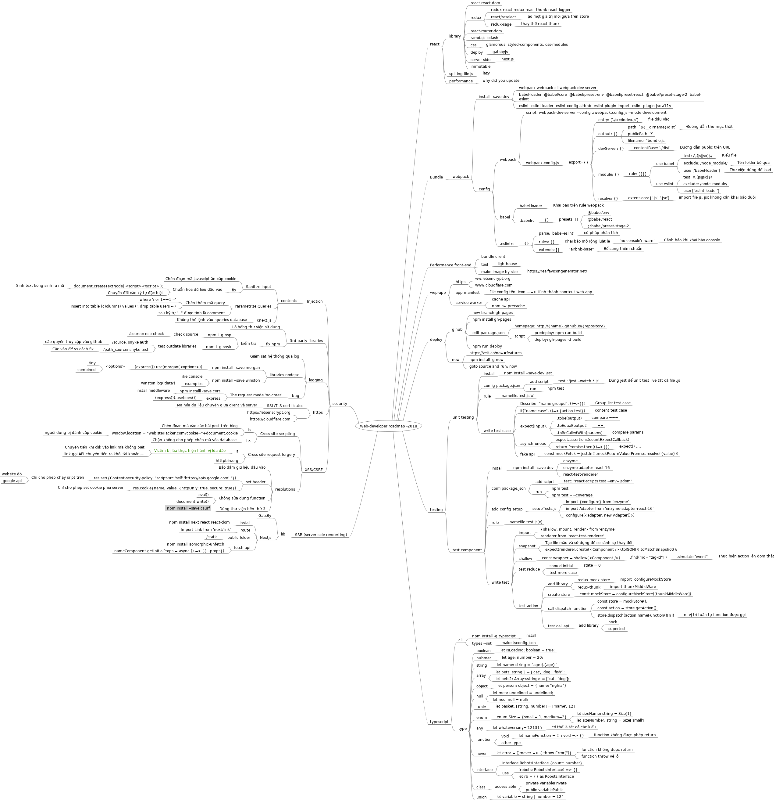
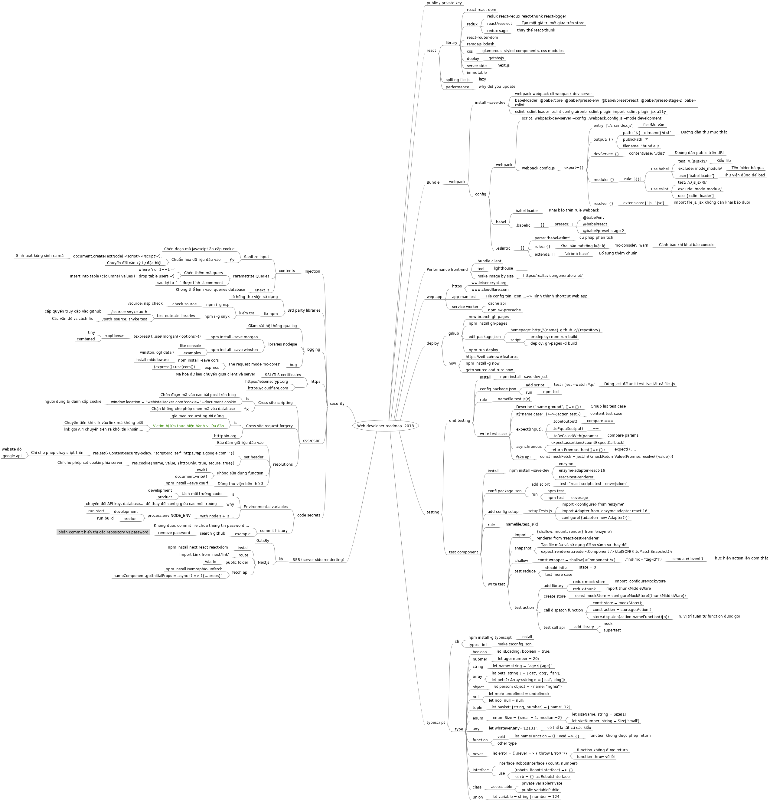
update

diff --git a/website/Web-developer roadmap -2018.mm b/website/Web-developer roadmap -2018.mm
@@ -1,6 +1,7 @@
 <map version="1.1.0">
 <!-- To view this file, download free mind mapping software FreeMind from http://freemind.sourceforge.net -->
 <node CREATED="1562349088685" ID="ID_85687085" MODIFIED="1562349112099" TEXT="Web-developer roadmap -2018">
+<node CREATED="1565706366896" ID="ID_68944081" MODIFIED="1565706381459" POSITION="right" TEXT="public / private key"/>
 <node CREATED="1562349279277" ID="ID_1216861701" MODIFIED="1562431284669" POSITION="right" TEXT="react">
 <node CREATED="1562431287372" ID="ID_1533171970" MODIFIED="1562431295934" TEXT="library">
 <node CREATED="1562431297049" ID="ID_491465079" MODIFIED="1562431305770" TEXT="react react-dom"/>
@@ -470,6 +471,7 @@
 </node>
 <node CREATED="1565705073527" ID="ID_357207481" MODIFIED="1565705102547" TEXT="Cross site request forgery">
 <node CREATED="1565705103491" ID="ID_650944059" MODIFIED="1565705105729" TEXT="is">
+<node CREATED="1565705945244" ID="ID_1097340639" MODIFIED="1565705961655" TEXT="g&#x1ec9;a m&#x1ea1;o request ng&#x1b0;&#x1edd;i d&#xf9;ng"/>
 <node COLOR="#338800" CREATED="1565705120120" ID="ID_1125659653" MODIFIED="1565705311646" TEXT="Victim b&#x1ecb; l&#x1eeb;a th&#x1ef1;c hi&#x1ec7;n h&#xe0;nh v&#x1ecb; l&#x1eeb;a &#x111;&#x1ea3;o">
 <node CREATED="1565705313562" ID="ID_1152296722" MODIFIED="1565705351782" TEXT="Chuy&#x1ec1;n ti&#x1ec1;n khi clik v&#xe0;o link m&#xe0; kh&#xf4;ng bi&#x1ebf;t"/>
 <node CREATED="1565705352564" ID="ID_1369443660" MODIFIED="1565705376128" TEXT="link g&#x1ecd;i API chuy&#x1ec3;n ti&#x1ec1;n ra kh&#x1ecf;i t&#xe0;i kho&#x1ea3;n,..."/>
@@ -496,6 +498,39 @@
 </node>
 <node CREATED="1565705824723" ID="ID_1801974227" MODIFIED="1565705845971" TEXT="D&#xf9;ng th&#x1b0; vi&#x1ec7;n b&#xea;n th&#x1ee9; 3">
 <node CREATED="1565705846925" ID="ID_195315612" MODIFIED="1565705865862" TEXT="npm install --save csurf"/>
+</node>
+</node>
+</node>
+<node CREATED="1565732974105" ID="ID_1087303806" MODIFIED="1565732983849" TEXT="code secrets">
+<node CREATED="1565732984759" ID="ID_1484006713" MODIFIED="1565733017252" TEXT="Environmental variables">
+<node CREATED="1565733018275" ID="ID_1409736852" MODIFIED="1565733065798" TEXT="is">
+<node CREATED="1565733068948" ID="ID_1674938964" MODIFIED="1565733080805" TEXT="t&#xe1;ch m&#xf4;i tr&#x1b0;&#x1edd;ng code">
+<node CREATED="1565733137207" ID="ID_1754201317" MODIFIED="1565733147127" TEXT="development"/>
+<node CREATED="1565733147464" ID="ID_1317309766" MODIFIED="1565733163904" TEXT="product"/>
+</node>
+</node>
+<node CREATED="1565733084106" ID="ID_1855381329" MODIFIED="1565733089606" TEXT="why">
+<node CREATED="1565733090345" ID="ID_843208822" MODIFIED="1565733382247" TEXT="chuy&#x1ec3;n &#x111;&#x1ed5;i API key, database,... &#x111;&#x1ec5; thay &#x111;&#x1ed5;i config gi&#x1eef;a c&#xe1;c m&#xf4;i tr&#x1b0;&#x1edd;ng"/>
+</node>
+<node CREATED="1565733175075" ID="ID_283692815" MODIFIED="1565733227126" TEXT="with nodejs + js ...">
+<node CREATED="1565733228473" ID="ID_1719689078" MODIFIED="1565733245066" TEXT="process.env.NODE_ENV">
+<node CREATED="1565733246007" ID="ID_1975606500" MODIFIED="1565733287415" TEXT="development">
+<node CREATED="1565733252233" ID="ID_1322841746" MODIFIED="1565733257093" TEXT="run start"/>
+</node>
+<node CREATED="1565733289360" ID="ID_464075692" MODIFIED="1565733299430" TEXT="product">
+<node CREATED="1565733300485" ID="ID_1635222409" MODIFIED="1565733305564" TEXT="run build"/>
+</node>
+</node>
+</node>
+</node>
+<node CREATED="1565733165873" ID="ID_447360022" MODIFIED="1565733399525" TEXT="commit history">
+<node CREATED="1565733400078" ID="ID_907167526" MODIFIED="1565733422464" TEXT="Kh&#xf4;ng &#x111;&#x1b0;&#x1ee3;c commit file ch&#x1ee9;a th&#xf4;ng tin password,... "/>
+<node CREATED="1565733424848" ID="ID_49846094" MODIFIED="1565733434247" TEXT="example">
+<node CREATED="1565733434810" ID="ID_389036324" MODIFIED="1565733469242" TEXT="search github">
+<node CREATED="1565733469912" ID="ID_431063053" MODIFIED="1565733474969" TEXT="remove password">
+<node CREATED="1565733475617" ID="ID_313188933" MODIFIED="1565733549866" TEXT="ph&#x1ea7;n commit hi&#x1ec3;n th&#x1ecb; c&#xe1;c repository vs password"/>
+</node>
+</node>
 </node>
 </node>
 </node>
